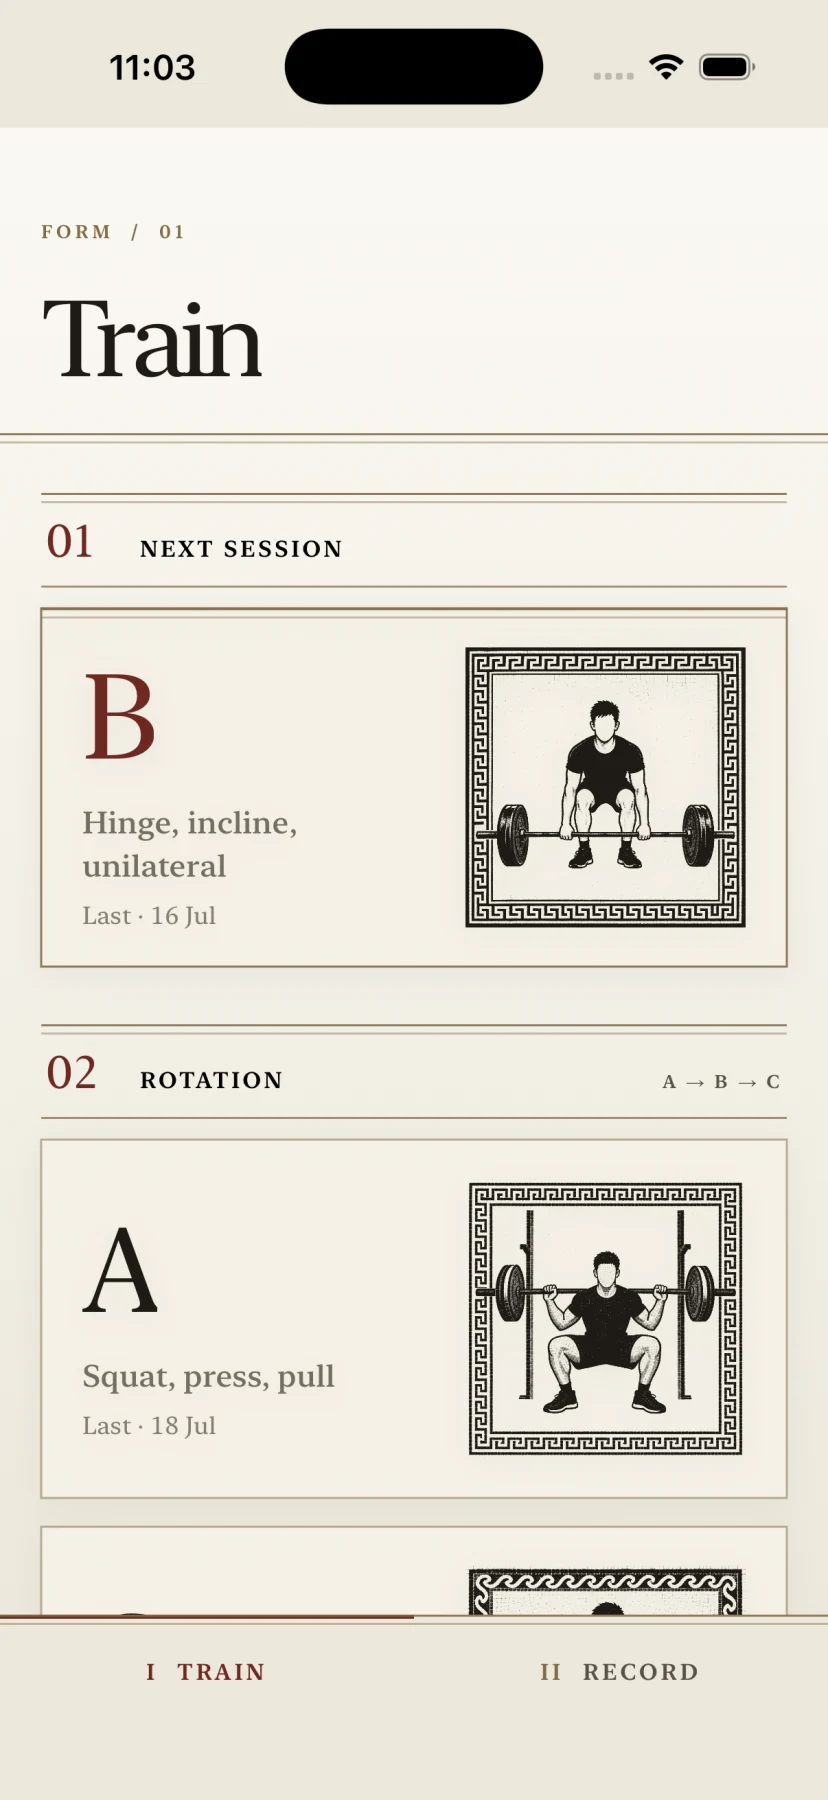
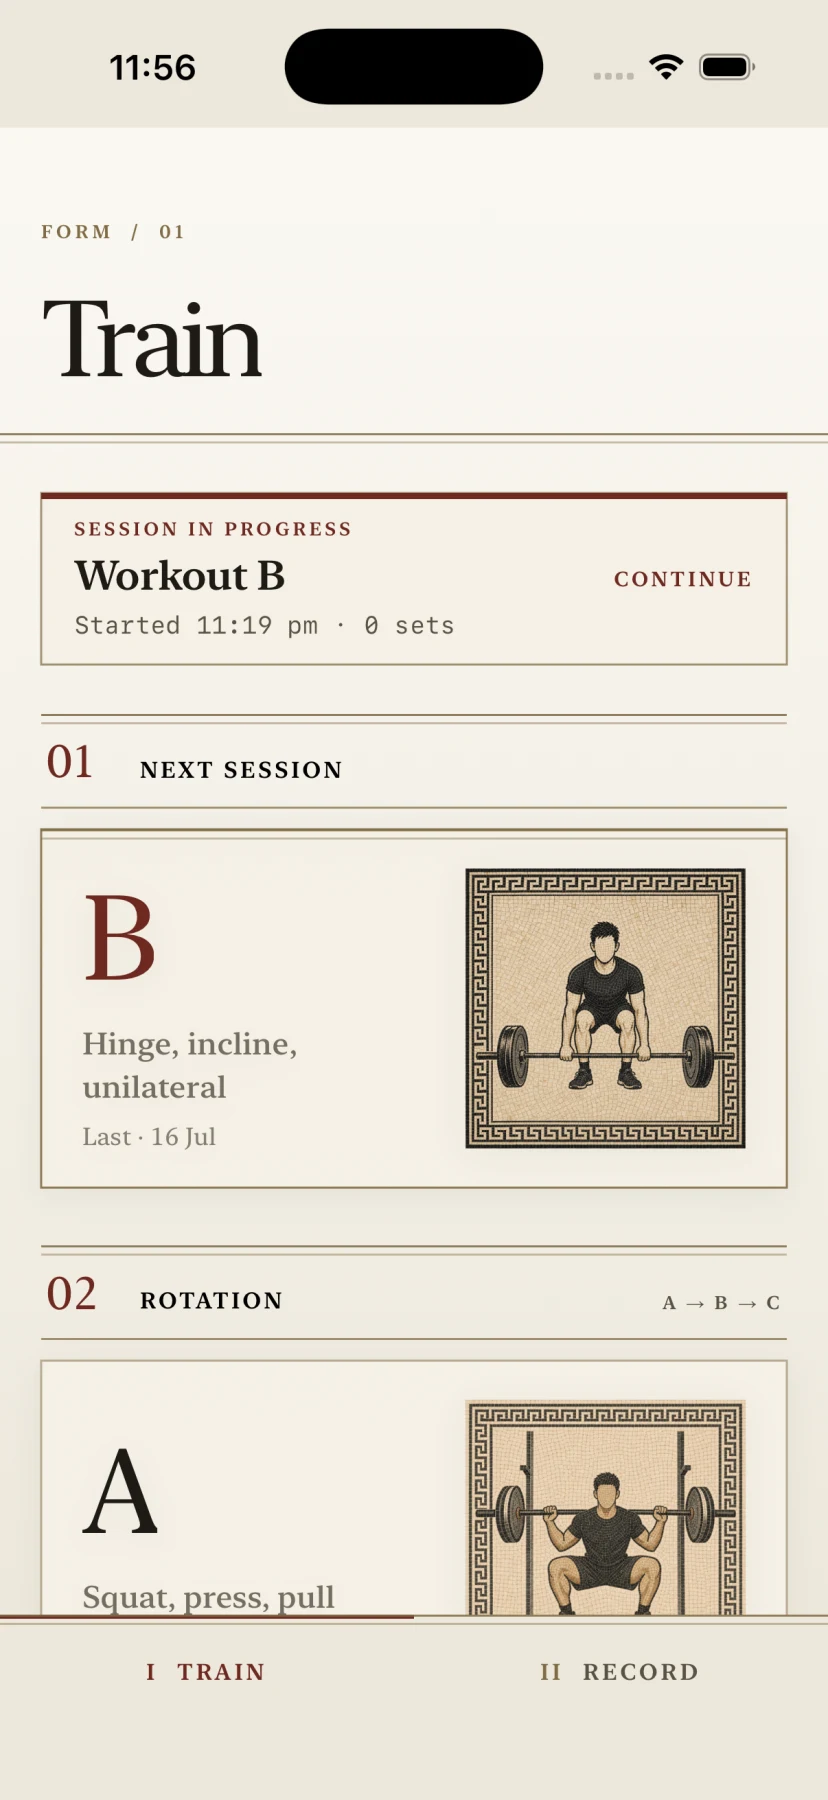
Update demonstration image rendering

Changed region(s): [[0.0302, 0.2489, 0.9662, 0.9022], [0.1812, 0.0311, 0.2415, 0.0622]]

diff --git a/Form/RootView.swift b/Form/RootView.swift
@@ -686,16 +686,9 @@ struct DemonstrationImage: View {
     var outlined = true
 
     var body: some View {
-        InkPalette.ink
-            .mask {
-                Image(assetName)
-                    .resizable()
-                    .scaledToFit()
-                    .grayscale(1)
-                    .contrast(3)
-                    .colorInvert()
-                    .luminanceToAlpha()
-            }
+        Image(assetName)
+            .resizable()
+            .scaledToFit()
             .clipShape(
                 Rectangle()
             )
@@ -704,7 +697,7 @@ struct DemonstrationImage: View {
                     Rectangle().stroke(.black.opacity(0.10), lineWidth: 1)
                 }
             }
-            .accessibilityLabel("Ink illustration demonstrating the exercise")
+            .accessibilityLabel("Mosaic illustration demonstrating the exercise")
     }
 }
 